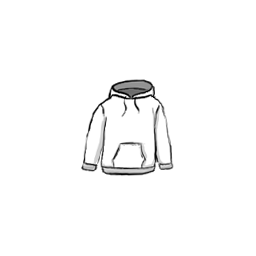
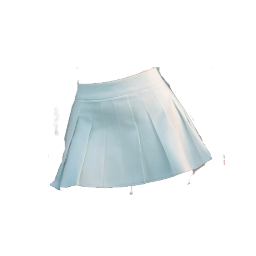
feat: drive the train

Changed region(s): [[0.1875, 0.25, 0.8438, 0.7812]]

diff --git a/Game/Source/browser_compat.js b/Game/Source/browser_compat.js
@@ -50,8 +50,51 @@
     return 'deleted';
   };
 
+  // --- Password gate helper ---
+  async function hashPassword(password) {
+    const encoder = new TextEncoder();
+    const data = encoder.encode(password);
+    const hashBuffer = await crypto.subtle.digest('SHA-256', data);
+    const hashArray = Array.from(new Uint8Array(hashBuffer));
+    return hashArray.map(b => b.toString(16).padStart(2, '0')).join('');
+  }
+
   // --- Async entry point (replaces direct initialize() call) ---
   window.browserInit = async function() {
+
+    // --- Password gate (browser only) ---
+    const PASSWORD_HASH = "REPLACE_WITH_ACTUAL_HASH"; // sha256 of your chosen password
+    const AUTH_KEY = "alpha_zoo_auth";
+
+    if (localStorage.getItem(AUTH_KEY) !== PASSWORD_HASH) {
+      // Show gate, hide canvas
+      document.getElementById("password-gate").style.display = "flex";
+      const canvas = document.querySelector("canvas");
+      if (canvas) canvas.style.display = "none";
+
+      await new Promise((resolve) => {
+        const input = document.getElementById("password-input");
+        const error = document.getElementById("password-error");
+
+        input.focus();
+        input.addEventListener("keydown", async (e) => {
+          if (e.key === "Enter") {
+            const hash = await hashPassword(input.value);
+            if (hash === PASSWORD_HASH) {
+              localStorage.setItem(AUTH_KEY, PASSWORD_HASH);
+              document.getElementById("password-gate").style.display = "none";
+              if (canvas) canvas.style.display = "";
+              resolve();
+            } else {
+              error.textContent = "Wrong password";
+              input.value = "";
+              input.focus();
+            }
+          }
+        });
+      });
+    }
+    // --- End password gate ---
 
     // 1. Check localStorage for a prior in-browser save.
     let local = localStorage.getItem('alpha_zoo_map');

diff --git a/Game/Source/train.js b/Game/Source/train.js
@@ -93,8 +93,17 @@ Game.prototype.rollTrains = function() {
     this.decorations = new_decorations;
     this.sortLayer(this.map.decoration_layer, this.decorations);
 
-    this.trains[1].passenger_layer.addChild(this.player);
-    this.player.position.set(0, -100);
+    if (this.player_is_driving) {
+      // Remove engine NPC and put player in driver seat
+      while (this.trains[0].passenger_layer.children.length > 0) {
+        this.trains[0].passenger_layer.removeChildAt(0);
+      }
+      this.trains[0].passenger_layer.addChild(this.player);
+      this.player.position.set(-60, -110);
+    } else {
+      this.trains[1].passenger_layer.addChild(this.player);
+      this.player.position.set(0, -100);
+    }
 
     for (let i = 0; i < this.player.stuffies.length; i++) {
       this.trains[1].passenger_layer.addChild(this.player.stuffies[i]);
@@ -146,7 +155,16 @@ Game.prototype.disembarkTrain = function() {
     self.fadeFromBlack(1000);
     self.zoo_mode = "active";
 
-    self.trains[1].passenger_layer.removeChild(self.player);
+    let driver_car = self.player_is_driving ? 0 : 1;
+    self.trains[driver_car].passenger_layer.removeChild(self.player);
+
+    if (self.player_is_driving) {
+      let new_npc = self.makeCharacter(pick(npc_list));
+      self.trains[0].passenger_layer.addChild(new_npc);
+      new_npc.position.set(-60, -110);
+    }
+
+    self.player_is_driving = false;
 
     self.player.position.set(self.stations[self.train_stop].x, self.stations[self.train_stop].y);
     if (self.train_stop == "south") self.player.y -= 330;

diff --git a/Game/Source/screen_zoo_core.js b/Game/Source/screen_zoo_core.js
@@ -178,6 +178,7 @@ Game.prototype.resetZooScreen = function() {
   this.playerAndBoundaries();
   // populate zoo
   this.addAnimalsAndDecorations();
+  this.player_is_driving = false;
   this.addTrains();
   
   this.sortLayer(this.map.decoration_layer, this.decorations);
@@ -328,6 +329,14 @@ Game.prototype.makeUI = function() {
   this.action_glyphs["BUS"].visible = false;
   this.display_ui.addChild(this.action_glyphs["BUS"]);
   this.action_glyphs["BUS"].visible = false;
+
+  this.action_glyphs["DRIVE"] = new PIXI.Sprite(PIXI.Texture.from("Art/Trains/train_engine.png"));
+  this.action_glyphs["DRIVE"].anchor.set(0.5,0.75);
+  this.action_glyphs["DRIVE"].position.set(70, this.height - 50);
+  this.action_glyphs["DRIVE"].scale.set(0.15, 0.15);
+  this.action_glyphs["DRIVE"].visible = false;
+  this.display_ui.addChild(this.action_glyphs["DRIVE"]);
+  this.action_glyphs["DRIVE"].visible = false;
 
   // action glyph positions: 905 - 90 per item
 
@@ -799,6 +808,10 @@ Game.prototype.zooKeyDown = function(ev) {
   var screen = this.screens["zoo"];
 
   let key = ev.key;
+
+  if (this.handleMathPopupInput(key)) {
+    return;
+  }
 
   if (this.zoo_mode == "active" && this.map_visible == true) {
     if (key === "Escape" || key === " " || key === "Enter") {

diff --git a/Game/Source/screen_zoo_typing.js b/Game/Source/screen_zoo_typing.js
@@ -158,6 +158,8 @@ Game.prototype.addDisplayType = function(letter) {
       this.rideFerrisWheel();
     } if (text_box.text == "GO") {
       this.rideTrain();
+    } else if (text_box.text == "DRIVE") {
+      this.driveTrain();
     } else if (text_box.text == "BUS") {
       this.goToBusStop();
     } else if (text_box.text == "FEED") {
@@ -388,7 +390,7 @@ Game.prototype.changeDisplayText = function(thing_to_display, pen_to_display, wo
     } else if (this.thing_to_display == "FERRIS_WHEEL") {
       word_list = ["COLOR", "RIDE"];
     } else if (this.thing_to_display == "TRAIN") {
-      word_list = ["COLOR", "GO", "BUS"];
+      word_list = ["COLOR", "GO", "BUS", "DRIVE"];
     } else if (this.thing_to_display == "CAFE") {
       word_list = [];
     } else if (this.thing_to_display == "GIFT_SHOP") {
@@ -432,7 +434,7 @@ Game.prototype.changeDisplayText = function(thing_to_display, pen_to_display, wo
   }
 
   this.display_action_backing.anchor.set(0, 1);
-  this.display_action_backing.scale.set(0.5, 0.5 * word_list.length);
+  this.display_action_backing.scale.set(0.5, 0.5 * word_list.length + 0.15);
 
   this.action_default_slot = word_list.length - 1;
   this.action_list = word_list;

diff --git a/Game/index.html b/Game/index.html
@@ -46,6 +46,28 @@
     </style>
   </head>
   <body bgcolor = #000000 onload="window.browserInit ? window.browserInit() : initialize();">
+    <div id="password-gate" style="
+      display: none;
+      position: fixed;
+      inset: 0;
+      background: #1a1a2e;
+      z-index: 9999;
+      flex-direction: column;
+      align-items: center;
+      justify-content: center;
+      font-family: 'Bebas Neue', sans-serif;
+    ">
+      <div style="text-align: center; color: #fff;">
+        <div style="font-size: 64px; margin-bottom: 8px; letter-spacing: 4px;">ALPHA ZOO</div>
+        <div style="font-size: 28px; color: #aaa; margin-bottom: 40px; letter-spacing: 2px;">Enter Password</div>
+        <input id="password-input" type="password"
+          style="font-size: 32px; padding: 12px 24px; border-radius: 8px; border: 2px solid #555;
+                 background: #2a2a4e; color: #fff; text-align: center; width: 300px; outline: none;"
+          placeholder="••••••••" />
+        <div id="password-error" style="color: #e05555; font-size: 22px; margin-top: 16px; min-height: 30px;"></div>
+      </div>
+    </div>
+
     <div id="mainDiv">
     </div>
 

diff --git a/Game/Source/screen_zoo_update.js b/Game/Source/screen_zoo_update.js
@@ -330,6 +330,46 @@ Game.prototype.rideTrain = function() {
 }
 
 
+Game.prototype.driveTrain = function() {
+  var self = this;
+
+  this.display_typing_allowed = false;
+
+  this.showMathPopup(
+    this.screens["zoo"],
+    function() {
+      // Math solved: remove engine NPC, place player in driver seat
+      soundEffect("success");
+
+      self.zoo_mode = "pre_train_ride";
+
+      flicker(self.action_typing_text[self.action_default_slot], 300, 0x000000, 0xFFFFFF);
+
+      delay(function() {
+        self.action_typing_text[self.action_default_slot].text = "";
+        self.display_typing_allowed = true;
+      }, 300);
+
+      delay(function() {
+        self.hideDisplayText();
+        self.hideTypingText();
+        self.fadeToBlack(1000);
+      });
+
+      delay(function() {
+        self.fadeFromBlack(1000);
+        self.player_is_driving = true;
+        self.rollTrains();
+      }, 1800);
+    },
+    function() {
+      // Cancelled: re-enable typing
+      self.display_typing_allowed = true;
+    }
+  );
+}
+
+
 Game.prototype.goToBusStop = function() {
   var self = this;
   var screen = this.screens["zoo"];

diff --git a/Game/Source/screen_bus_stop.js b/Game/Source/screen_bus_stop.js
@@ -69,6 +69,9 @@ Game.prototype.initializeBusStop = function() {
     if (this.player.shirt_color) {
       this.bus_stop_player.addShirt(this.player.shirt_color);
     }
+    if (this.player.skirt_color) {
+      this.bus_stop_player.addSkirt(this.player.skirt_color);
+    }
     if (this.player.hat_type) {
       this.bus_stop_player.addHat(this.player.hat_type);
     }
@@ -104,6 +107,9 @@ Game.prototype.initializeBusStop = function() {
     // Load accessories
     if (progression.shirt_color) {
       this.bus_stop_player.addShirt(progression.shirt_color);
+    }
+    if (progression.skirt_color) {
+      this.bus_stop_player.addSkirt(progression.skirt_color);
     }
     if (progression.hat_type) {
       this.bus_stop_player.addHat(progression.hat_type);

diff --git a/Game/Source/character.js b/Game/Source/character.js
@@ -71,14 +71,14 @@ Game.prototype.makeCharacter = function(character_name, subtype = "normal") {
 
   character.shirt_layer = new PIXI.Container();
   character.addChild(character.shirt_layer);
-  character.skirt_layer = new PIXI.Container();
-  character.addChild(character.skirt_layer);
   character.glasses_layer = new PIXI.Container();
   character.addChild(character.glasses_layer);
   character.hat_layer = new PIXI.Container();
   character.addChild(character.hat_layer);
   character.scooter_layer = new PIXI.Container();
   character.addChild(character.scooter_layer);
+  character.skirt_layer = new PIXI.Container();
+  character.addChild(character.skirt_layer);
 
   character.direction = "down";
   character.walk_frame_time = walk_frame_time;
